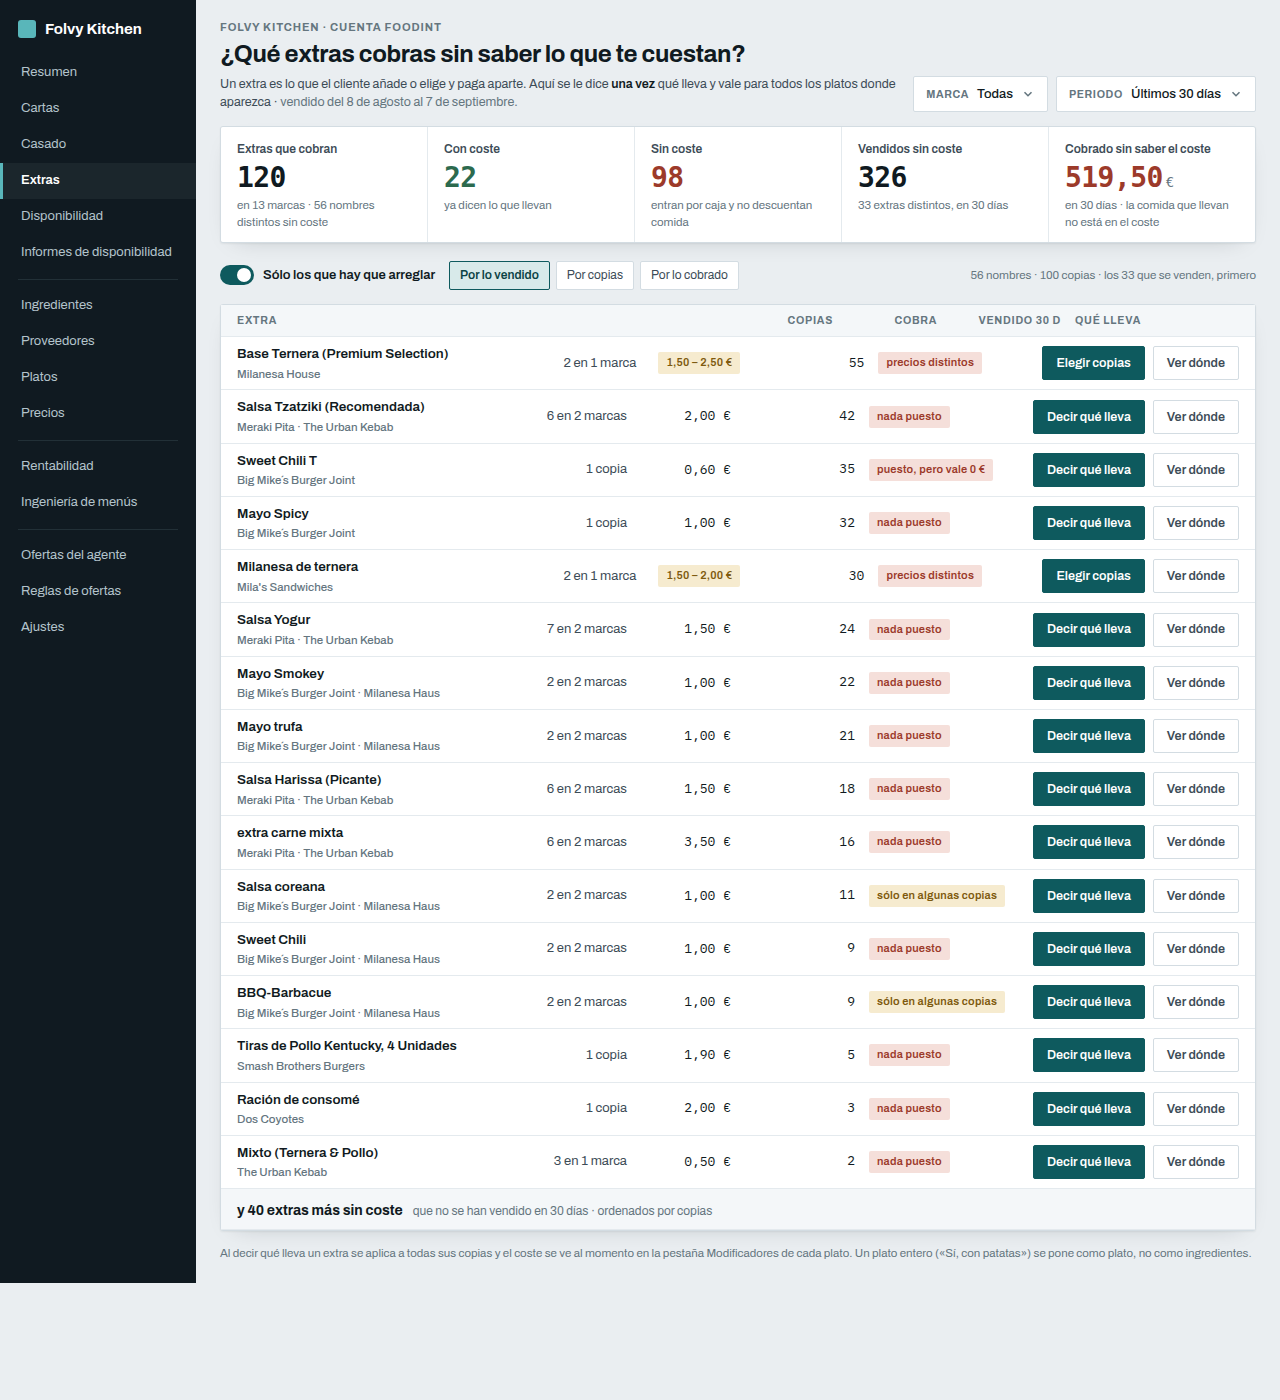
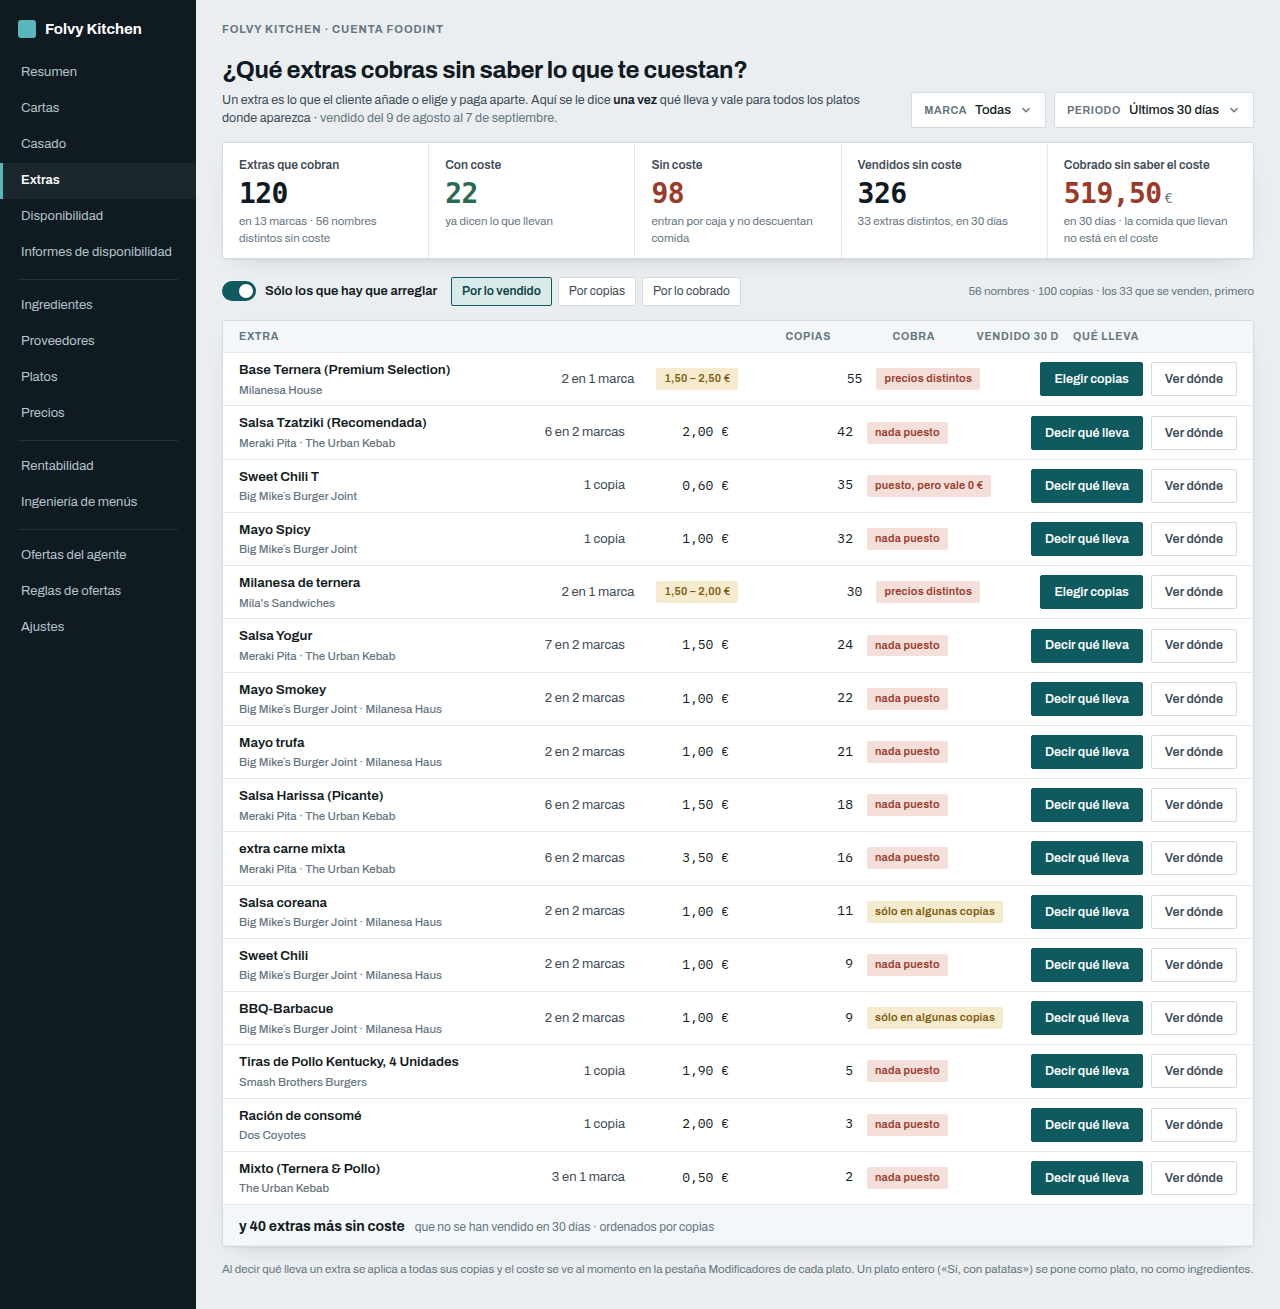
Extras: un solo reloj en la ventana, y la cabecera al milímetro de la maqueta
§15. La frase prometía días enteros («del 8 de agosto al 7 de septiembre») y la
consulta contaba desde ayer a las 15:00: dos relojes, y el que se leía no era el
que contaba. Ahora sólo cuenta uno.

· La RPC cuenta DÍAS ENTEROS en el calendario de Madrid y devuelve cuáles:
  `ventana_desde` y `ventana_hasta`. Medido contra producción: 30 días enteros
  cerrados el 07/09 son del 9 de agosto al 7 de septiembre, 2.948 ventas (la
  ventana móvil daba 3.003 y arrancaba a media tarde). Truncar en UTC no vale:
  la medianoche de Madrid del 9 son las 22:00 UTC del 8, y truncando en UTC la
  ventana empezaría a las 02:00 y se comería la madrugada de Alcalá (regla 4).
· La pantalla ya no calcula ninguna fecha: escribe las dos que le manda la
  consulta. `ventanaEnCastellano` recibe los dos días, no «medido a las 15:00
  menos 30». Las fechas se leen a mano, no con `new Date('2026-08-09')`, que es
  medianoche UTC; y una fecha imposible devuelve null en vez de rodar al mes
  siguiente.

Y la captura comparada, ahora con las tipografías incrustadas en LOS DOS lados
(la anterior tenía la maqueta en DejaVu y cada diferencia de fuente se leía como
una diferencia de diseño). Con la misma vara aparecieron dos que sí eran reales
y están corregidas:

· El margen de página era `px-6 py-5` (24/20) y la maqueta usa 26/22/30 en sus
  seis lienzos. Los 2 px de más ensanchaban la caja del subtítulo 4 px y la
  frase rompía la línea una palabra más tarde. Va como `.cocina-pagina` en los
[…]

Changed region(s): [[0.1562, 0.0, 0.9688, 0.9778], [0.0, 0.0, 0.125, 0.4584], [0.0, 0.9167, 0.1562, 1.0]]

diff --git a/tests/unit/modules/kitchen/extrasDeCocina.test.ts b/tests/unit/modules/kitchen/extrasDeCocina.test.ts
@@ -253,40 +253,68 @@ describe('la frase de lo que lleva, sin jerga', () => {
 })
 
 // ── Qué días se está viendo ────────────────────────────────────────────────
-// La maqueta pone las fechas («vendido del 8 de agosto al 6 de septiembre») y
-// no «los últimos 30 días», que obliga a echar la cuenta de cabeza. Y es donde
-// mordió B82: una fecha ilegible NO puede tumbar la cabecera.
+// La maqueta pone las fechas («vendido del 9 de agosto al 7 de septiembre») y
+// no «los últimos 30 días», que obliga a echar la cuenta de cabeza.
+//
+// UN RELOJ. Las dos fechas ya no se calculan aquí: llegan de la consulta, que
+// las devuelve porque son exactamente los días que ha contado, en el calendario
+// de Madrid. Antes la frase decía «del 8 de agosto» —hoy menos 30— y la consulta
+// contaba desde ayer a las 15:00: la frase prometía días enteros que la consulta
+// no contaba. Los ejemplos de abajo son los de la ventana real de producción:
+// 30 días enteros cerrados el 07/09/2026 son del 9 de agosto al 7 de septiembre,
+// 2.948 ventas (la ventana móvil daba 3.003 y arrancaba a media tarde).
+//
+// Lo que estas pruebas NO pueden ver: el entorno corre en UTC, así que leer las
+// fechas a mano en vez de con `new Date('2026-08-09')` no cambia el resultado
+// aquí. Lo que sí se prueba es que una fecha imposible no rueda al mes
+// siguiente, que es la otra mitad de la misma lectura manual.
 import { ventanaEnCastellano } from '@/modules/kitchen/lib/extrasDeCocina'
 import { intervaloDeFechas } from '@/modules/ventas/services/textoInforme'
 
 describe('las fechas de la ventana', () => {
-  it('una ventana de 30 días medida el 07/09 se lee con sus dos fechas', () => {
-    expect(ventanaEnCastellano('2026-09-07T15:00:00', 30, intervaloDeFechas))
-      .toBe('vendido del 8 de agosto al 7 de septiembre')
+  it('escribe los dos días que dice la consulta, sin tocarlos', () => {
+    expect(ventanaEnCastellano('2026-08-09', '2026-09-07', intervaloDeFechas))
+      .toBe('vendido del 9 de agosto al 7 de septiembre')
   })
 
-  // El límite de arriba es EXCLUSIVO: sin la medianoche de mañana diría «al 6»
-  // y se comería lo vendido hoy, que sí está contado.
-  it('el día de hoy entra en la frase', () => {
-    expect(ventanaEnCastellano('2026-09-07T15:00:00', 30, intervaloDeFechas))
+  // El límite de arriba es EXCLUSIVO en `intervaloDeFechas`: sin pasarle la
+  // medianoche siguiente diría «al 6» y se comería el último día, que sí está
+  // contado.
+  it('el último día contado entra en la frase', () => {
+    expect(ventanaEnCastellano('2026-08-09', '2026-09-07', intervaloDeFechas))
       .toContain('al 7 de septiembre')
   })
 
-  // La coletilla de la hora es el dato en Informes; aquí es ruido.
+  // La coletilla de la hora es el dato en Informes; aquí es ruido, y además
+  // sería el segundo reloj entrando por la puerta de atrás.
   it('no arrastra la hora', () => {
-    expect(ventanaEnCastellano('2026-09-07T15:00:00', 30, intervaloDeFechas))
+    expect(ventanaEnCastellano('2026-08-09', '2026-09-07', intervaloDeFechas))
       .not.toContain('hasta las')
   })
 
   it('cruza el cambio de año sin romperse', () => {
-    expect(ventanaEnCastellano('2027-01-10T09:00:00', 30, intervaloDeFechas))
-      .toBe('vendido del 11 de diciembre al 10 de enero')
+    expect(ventanaEnCastellano('2026-12-12', '2027-01-10', intervaloDeFechas))
+      .toBe('vendido del 12 de diciembre al 10 de enero')
   })
 
-  // B82: la cabecera se pinta aunque la fecha no se pueda leer.
+  // Un solo día contado se lee como un solo día.
+  it('una ventana de un día se lee entera', () => {
+    expect(ventanaEnCastellano('2026-09-07', '2026-09-07', intervaloDeFechas))
+      .toContain('7 de septiembre')
+  })
+
+  // B82: la cabecera se pinta aunque las fechas no se puedan leer.
   it('una fecha ilegible devuelve null, no un error', () => {
-    expect(ventanaEnCastellano('no es una fecha', 30, intervaloDeFechas)).toBeNull()
-    expect(ventanaEnCastellano(null, 30, intervaloDeFechas)).toBeNull()
-    expect(ventanaEnCastellano('2026-09-07T15:00:00', null, intervaloDeFechas)).toBeNull()
+    expect(ventanaEnCastellano('no es una fecha', '2026-09-07', intervaloDeFechas)).toBeNull()
+    expect(ventanaEnCastellano(null, '2026-09-07', intervaloDeFechas)).toBeNull()
+    expect(ventanaEnCastellano('2026-08-09', null, intervaloDeFechas)).toBeNull()
+  })
+
+  // `new Date(2026, 12, 1)` no falla: rueda a enero de 2027 y la cabecera
+  // pintaría una ventana que nadie ha contado. Mejor sin fechas que con fechas
+  // inventadas.
+  it('una fecha que no existe devuelve null, no rueda al mes siguiente', () => {
+    expect(ventanaEnCastellano('2026-13-01', '2026-09-07', intervaloDeFechas)).toBeNull()
+    expect(ventanaEnCastellano('2026-02-30', '2026-09-07', intervaloDeFechas)).toBeNull()
   })
 })

diff --git a/src/modules/kitchen/lib/extrasDeCocina.ts b/src/modules/kitchen/lib/extrasDeCocina.ts
@@ -245,31 +245,47 @@ export function frasedeLoQueLleva(cosas: CosaQueLleva[]): string {
 }
 
 /**
- * QUÉ DÍAS SE ESTÁ VIENDO, con las fechas puestas: «vendido del 8 de agosto al
+ * QUÉ DÍAS SE ESTÁ VIENDO, con las fechas puestas: «vendido del 9 de agosto al
  * 7 de septiembre». «Los últimos 30 días» obliga a hacer la cuenta de cabeza y
  * no dice desde cuándo, que es lo que hace falta para juzgar un número de
  * ventas.
  *
- * Dos ajustes sobre `intervaloDeFechas`, y los dos cambian lo que dice:
- *  · A DÍAS ENTEROS. Con la hora tal cual sale «al 7 de septiembre, hasta las
- *    15:00». Esa coletilla es el dato en Informes; aquí es ruido.
- *  · EL LÍMITE DE ARRIBA ES EXCLUSIVO, así que para que HOY entre en la frase
- *    hay que pasar la medianoche de mañana. Dejarlo en hoy diría «al 6» y se
- *    comería lo vendido hoy, que sí está contado.
+ * UN SOLO RELOJ. Las dos fechas las manda la consulta (`ventana_desde` y
+ * `ventana_hasta`): son los días que ha contado de verdad, en el calendario de
+ * Madrid. Aquí no se calcula ninguna, sólo se escriben. Sacarlas de «medido a
+ * las 15:00, menos 30 días» prometía días enteros mientras la consulta contaba
+ * desde ayer a las 15:00: dos relojes, y el que se leía no era el que contaba.
  *
- * Devuelve `null` si la fecha no se puede leer: una cabecera sin fechas se
- * pinta, no revienta (B82).
+ * Dos detalles al pasarlas a texto, y los dos cambian lo que dice:
+ *  · SE LEEN COMO FECHA DE CALENDARIO, a mano. `new Date('2026-08-09')` es
+ *    medianoche UTC, que al oeste de Greenwich cae en el día 8.
+ *  · EL LÍMITE DE ARRIBA ES EXCLUSIVO en `intervaloDeFechas`, así que para que
+ *    el último día entre en la frase hay que pasarle la medianoche siguiente.
+ *
+ * Devuelve `null` si falta o no se entiende alguna de las dos: una cabecera sin
+ * fechas se pinta, no revienta (B82).
  */
+function diaDeCalendario(iso: string | null): Date | null {
+  if (!iso) return null
+  const p = /^(\d{4})-(\d{2})-(\d{2})/.exec(iso)
+  if (!p) return null
+  const anio = Number(p[1]); const mes = Number(p[2]); const dia = Number(p[3])
+  const d = new Date(anio, mes - 1, dia)
+  // `new Date(2026, 12, 40)` no falla: se desborda a otro mes. Un 13 o un 32 es
+  // una fecha que no existe, no una fecha que rueda.
+  if (d.getFullYear() !== anio || d.getMonth() !== mes - 1 || d.getDate() !== dia) return null
+  return d
+}
+
 export function ventanaEnCastellano(
-  medidoEn: string | null,
-  ventanaDias: number | null,
+  ventanaDesde: string | null,
+  ventanaHasta: string | null,
   intervaloDeFechas: (d: Date, h: Date, o?: { minuscula?: boolean }) => string | null,
 ): string | null {
-  if (!medidoEn || !ventanaDias) return null
-  const m = new Date(medidoEn)
-  if (Number.isNaN(m.getTime())) return null
-  const desde = new Date(m.getFullYear(), m.getMonth(), m.getDate() - ventanaDias)
-  const hasta = new Date(m.getFullYear(), m.getMonth(), m.getDate() + 1)
-  const t = intervaloDeFechas(desde, hasta, { minuscula: true })
+  const desde = diaDeCalendario(ventanaDesde)
+  const hasta = diaDeCalendario(ventanaHasta)
+  if (!desde || !hasta) return null
+  const finExclusivo = new Date(hasta.getFullYear(), hasta.getMonth(), hasta.getDate() + 1)
+  const t = intervaloDeFechas(desde, finExclusivo, { minuscula: true })
   return t ? `vendido ${t}` : null
 }

diff --git a/src/modules/kitchen/pages/KitchenExtrasPage.tsx b/src/modules/kitchen/pages/KitchenExtrasPage.tsx
@@ -161,10 +161,12 @@ export default function KitchenExtrasPage() {
     return ordena(filas, orden)
   }, [datos, soloLosQueArreglar, marca, orden])
 
-  // Las fechas de la ventana, en castellano. La lógica vive en `lib/` para
-  // poder probarla: una frase que sitúa mal al que mira no la caza un build.
+  // Las fechas de la ventana, en castellano. Salen de la consulta —son los días
+  // que ha contado— y aquí sólo se escriben: un reloj, no dos. La lógica vive en
+  // `lib/` para poder probarla: una frase que sitúa mal al que mira no la caza
+  // un build.
   const intervalo = useMemo(
-    () => ventanaEnCastellano(datos?.medidoEn ?? null, datos?.ventanaDias ?? null, intervaloDeFechas),
+    () => ventanaEnCastellano(datos?.ventanaDesde ?? null, datos?.ventanaHasta ?? null, intervaloDeFechas),
     [datos],
   )
 
@@ -182,7 +184,7 @@ export default function KitchenExtrasPage() {
 
   return (
     <div className="cocina min-h-full">
-      <div className="px-6 py-5 flex flex-col gap-3.5">
+      <div className="cocina-pagina">
 
         <CabeceraCocina
           migaja="Folvy Kitchen"

diff --git a/tests/unit/modules/kitchen/capturaExtras.test.tsx b/tests/unit/modules/kitchen/capturaExtras.test.tsx
@@ -86,13 +86,13 @@ function Fila({ e }: { e: ExtraPorNombre }) {
 it('genera la captura de Extras a 1280', () => {
   const cuerpo = renderToStaticMarkup(
     <div className="cocina min-h-full">
-      <div className="px-6 py-5 flex flex-col gap-3.5">
+      <div className="cocina-pagina">
         <CabeceraCocina
           migaja="Folvy Kitchen · Cuenta Foodint"
           pregunta="¿Qué extras cobras sin saber lo que te cuestan?"
           regla={<>Un extra es lo que el cliente añade o elige y paga aparte. Aquí se le dice{' '}
             <b className="font-semibold text-cocina-tinta">una vez</b> qué lleva y vale para todos los
-            platos donde aparezca · <em className="not-italic text-cocina-tinta-3">vendido del 8 de agosto al 7 de septiembre.</em></>}
+            platos donde aparezca · <em className="not-italic text-cocina-tinta-3">vendido del 9 de agosto al 7 de septiembre.</em></>}
         >
           <CampoCocina label="Marca"><span>Todas</span></CampoCocina>
           <CampoCocina label="Periodo"><span>Últimos 30 días</span></CampoCocina>

diff --git a/src/modules/kitchen/services/extrasService.ts b/src/modules/kitchen/services/extrasService.ts
@@ -29,7 +29,10 @@ const num = (v: unknown): number => (v == null ? 0 : Number(v))
 const numOrNull = (v: unknown): number | null => (v == null ? null : Number(v))
 
 export interface LosExtras {
-  medidoEn: string | null
+  // Los días que ha contado la consulta, tal cual los devuelve, en el
+  // calendario de Madrid. La cabecera los escribe; no los recalcula nadie.
+  ventanaDesde: string | null
+  ventanaHasta: string | null
   ventanaDias: number | null
   cifras: CifrasDeExtras
   filas: ExtraPorNombre[]
@@ -46,7 +49,8 @@ export async function getExtras(accountId: string): Promise<LosExtras> {
   const c = (d.cifras ?? {}) as Record<string, unknown>
 
   return {
-    medidoEn: (d.medido_en as string) ?? null,
+    ventanaDesde: (d.ventana_desde as string) ?? null,
+    ventanaHasta: (d.ventana_hasta as string) ?? null,
     ventanaDias: numOrNull(d.ventana_dias),
     cifras: {
       cobran: num(c.cobran),

diff --git a/src/modules/kitchen/components/PatronDeKitchen.tsx b/src/modules/kitchen/components/PatronDeKitchen.tsx
@@ -224,7 +224,10 @@ export function CabeceraCocina({
   migaja, pregunta, regla, children,
 }: { migaja?: string; pregunta: string; regla: ReactNode; children?: ReactNode }) {
   return (
-    <div>
+    // 14 px entre la migaja y el título: en la maqueta son dos hijos de `.main`,
+    // que separa a 14. Aquí van juntos en la cabecera, así que la separación hay
+    // que ponerla, no heredarla — sin ella todo lo de abajo subía 14 px.
+    <div className="flex flex-col gap-3.5">
       {migaja && (
         <div className="text-[11px] text-cocina-tinta-3 tracking-[0.08em] uppercase font-bold">{migaja}</div>
       )}

diff --git a/src/modules/kitchen/estilo/cocinaTokens.css b/src/modules/kitchen/estilo/cocinaTokens.css
@@ -89,3 +89,15 @@
   font-family: var(--cocina-mono);
   font-variant-numeric: tabular-nums;
 }
+
+/* El margen de la página, copiado tal cual de la maqueta (`.main`): 22 arriba,
+   26 a los lados, 30 abajo y 14 de separación entre bloques. Los seis lienzos
+   llevan el mismo, así que va aquí y no en cada pantalla: con `px-6 py-5` la
+   caja de texto de la cabecera salía 4 px más ancha y el subtítulo rompía la
+   línea una palabra más tarde que en la maqueta. */
+.cocina-pagina {
+  padding: 22px 26px 30px;
+  display: flex;
+  flex-direction: column;
+  gap: 14px;
+}
